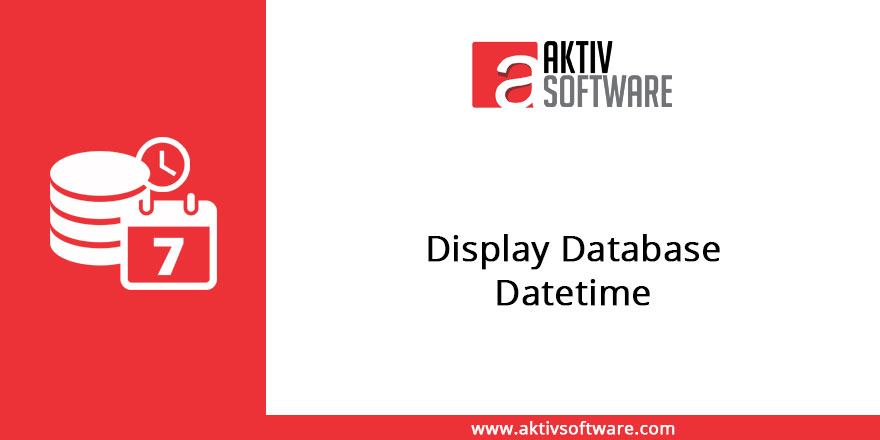
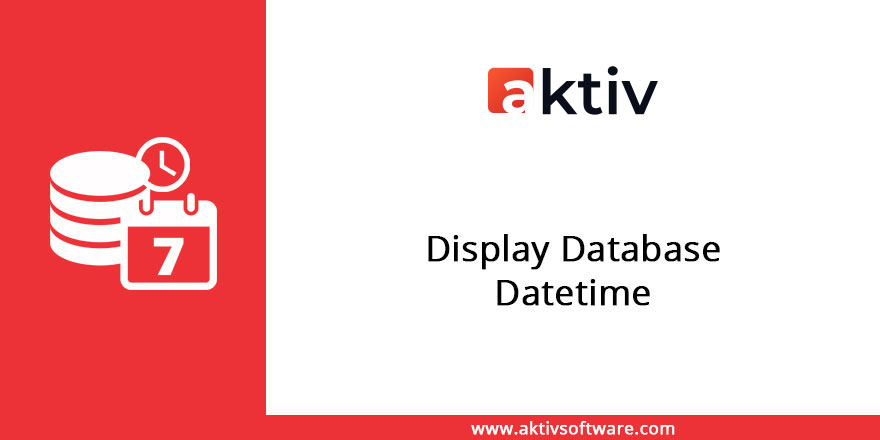
[ADD] change image in 10.0

Changed region(s): [[0.5216, 0.0886, 0.767, 0.2659]]

diff --git a/display_db_creation_datetime/static/description/index.html b/display_db_creation_datetime/static/description/index.html
@@ -20,7 +20,7 @@
    <div class="oe_span12">
         <h2 class="oe_slogan">
             <a href="http://aktivsoftware.com/" target="new">
-                <img src="http://aktivsoftware.com/wp-content/uploads/2018/01/logo-1.png"/>
+                <img src="aktiv-logo.png"/>
             </a>
             <br/>
             <a href="mailto:sales@aktivsoftware.com" style="color: #000000 !important;">
